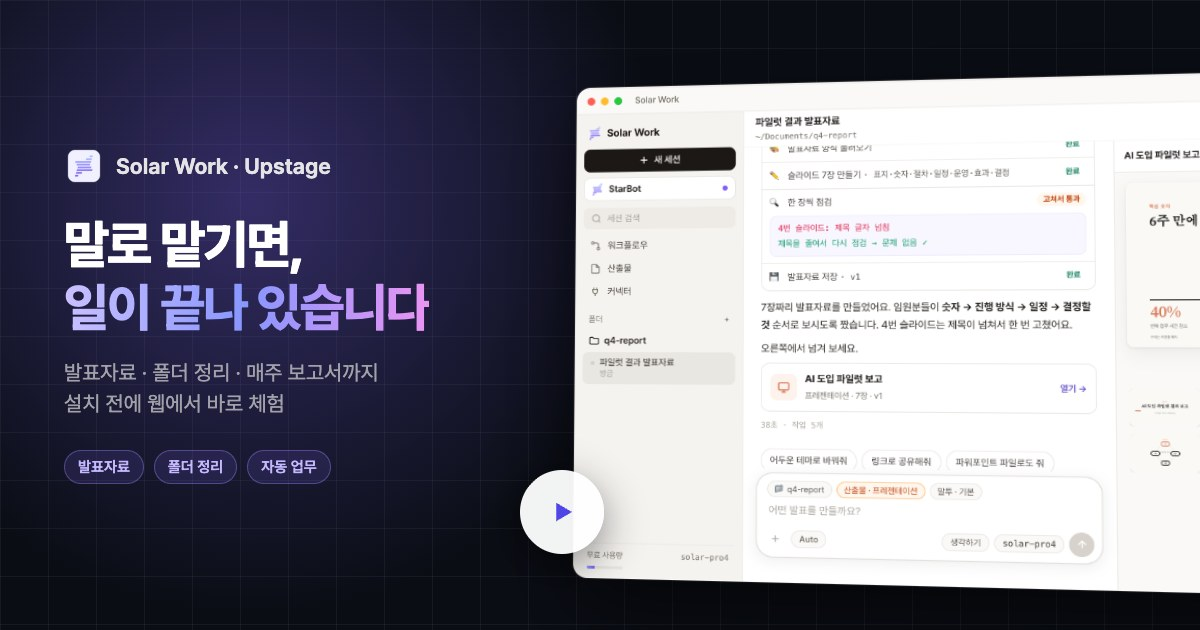
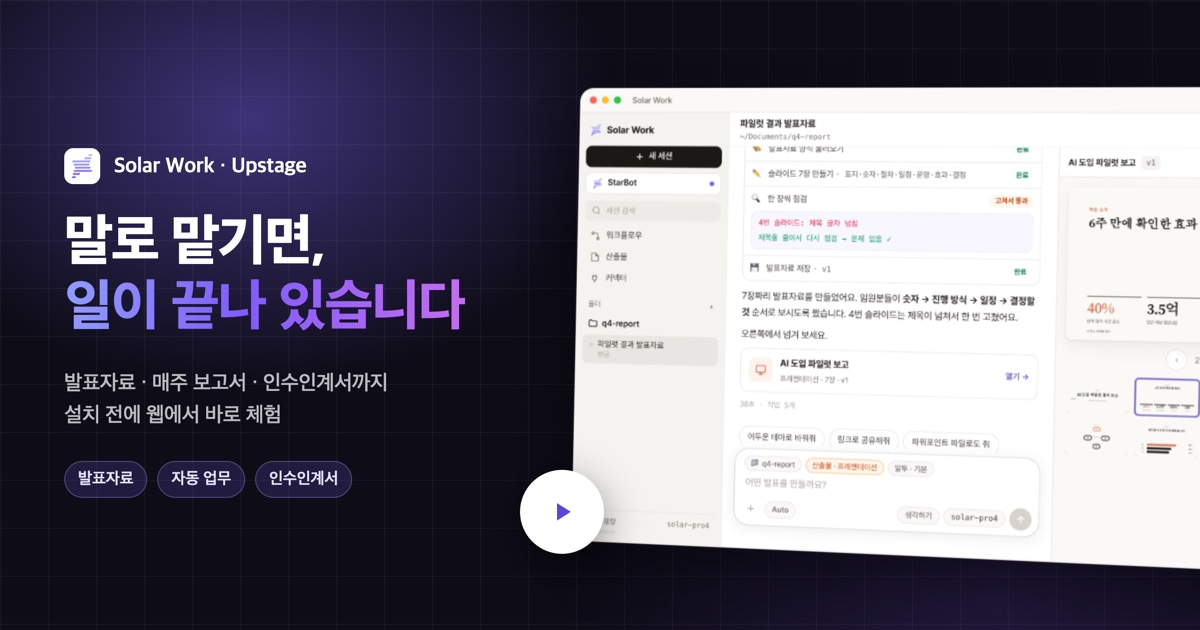
Landing demo: replace folder cleanup with a vacation handover doc
Review feedback worried that a demo which deletes and tidies files
suggests data loss. The folder-cleanup scene is gone. A new last scene
writes a handover document before a vacation. It gathers the week's
work from the other scenes (the deck v2, the sales chart, the weekly
competitor report, the pending Northwind contract) and saves it as a
new file. It deletes nothing and stops for no approval.

Scene order is now: slides, change course, split research, weekly
report, morning briefing, handover. Typing "인수인계" or "휴가" opens
the new scene.

Copy follows the change: meta and og descriptions, hero lead, use-case
card, and the request-judge default. The hero chip once again
reassures that deletes are asked first. The "asks first" section title
now covers going outside the folder too, and its demo button opens the
weekly report scene, which really waits for an OK. The briefing date
is fixed to Monday Oct 19, matching the weekly report's next run on
Monday Oct 26. The link-preview image is regenerated without "폴더 정리".

diff --git a/docs/index.html b/docs/index.html
@@ -4,13 +4,13 @@
 <meta charset="utf-8">
 <meta name="viewport" content="width=device-width, initial-scale=1">
 <title>Solar Work — 말로 맡기면 일이 끝나 있습니다</title>
-<meta name="description" content="자료를 주면 발표자료가, 엉망인 폴더는 정리가, 매주 보고서는 자동으로. 말로 맡기면 일이 끝나 있는 AI 동료 Solar Work.">
+<meta name="description" content="자료를 주면 발표자료가, 매주 보고서는 자동으로, 휴가 전엔 인수인계서까지. 말로 맡기면 일이 끝나 있는 AI 동료 Solar Work.">
 <meta name="theme-color" content="#faf9f7">
 <meta property="og:type" content="website">
 <meta property="og:site_name" content="Solar Work">
 <meta property="og:url" content="https://upstageai.github.io/solar-work-release/">
 <meta property="og:title" content="Solar Work — 말로 맡기면 일이 끝나 있습니다">
-<meta property="og:description" content="발표자료, 폴더 정리, 매주 보고서까지. 알아서 하고 지울 때만 물어보는 AI 동료를 설치 없이 웹에서 먼저 체험해 보세요.">
+<meta property="og:description" content="발표자료, 매주 보고서, 인수인계서까지. 알아서 하고 꼭 필요할 때만 물어보는 AI 동료를 설치 없이 웹에서 먼저 체험해 보세요.">
 <meta property="og:image" content="https://upstageai.github.io/solar-work-release/assets/og.jpg">
 <meta property="og:image:secure_url" content="https://upstageai.github.io/solar-work-release/assets/og.jpg">
 <meta property="og:image:type" content="image/jpeg">
@@ -20,7 +20,7 @@
 <meta property="og:locale" content="ko_KR">
 <meta name="twitter:card" content="summary_large_image">
 <meta name="twitter:title" content="Solar Work — 말로 맡기면 일이 끝나 있습니다">
-<meta name="twitter:description" content="발표자료, 폴더 정리, 매주 보고서까지. 설치 없이 웹에서 먼저 체험해 보세요.">
+<meta name="twitter:description" content="발표자료, 매주 보고서, 인수인계서까지. 설치 없이 웹에서 먼저 체험해 보세요.">
 <meta name="twitter:image" content="https://upstageai.github.io/solar-work-release/assets/og.jpg">
 <link rel="icon" href="assets/logo.svg" type="image/svg+xml">
 <link rel="apple-touch-icon" href="assets/icon.png">
@@ -662,7 +662,7 @@ footer a{text-decoration:none;color:var(--n500)}footer a:hover{color:var(--n900)
   <div class="wrap">
     <span class="eyebrow"><i></i>Upstage Solar로 일하는 AI 동료 · Mac · Windows · Linux · 웹</span>
     <h1>말로 맡기면,<br><span class="grad">일이 끝나 있습니다</span></h1>
-    <p class="lead">자료를 주면 발표자료가 되고, 엉망인 폴더는 정리되고, 매주 하던 보고서는 알아서 만들어져 내 확인만 기다립니다. 답만 하는 AI가 아니라, 내 컴퓨터에서 <b>일을 끝내는</b> AI 동료 Solar Work.</p>
+    <p class="lead">자료를 주면 발표자료가 되고, 매주 하던 보고서는 알아서 만들어져 내 확인만 기다리고, 휴가 전엔 인수인계서까지 써 둡니다. 답만 하는 AI가 아니라, 내 컴퓨터에서 <b>일을 끝내는</b> AI 동료 Solar Work.</p>
     <div class="cta">
       <a class="btn brand" href="#download" data-dl-primary><svg class="i" viewBox="0 0 24 24" fill="none" stroke="currentColor" stroke-width="2.2" stroke-linecap="round"><path d="M12 4v11M7 10l5 5 5-5M5 20h14"/></svg><span data-dl-label>무료로 다운로드</span></a>
       <a class="btn ghost" href="#demo" data-start="deck">▶ 설치 없이 지금 체험하기</a>
@@ -670,7 +670,7 @@ footer a{text-decoration:none;color:var(--n500)}footer a:hover{color:var(--n900)
     <div class="cta-note"><span data-dl-meta>macOS · Windows · Linux</span> · 로그인하거나 Upstage API 키를 넣으면 바로 시작 · <a href="#download">다른 플랫폼</a></div>
     <div class="trust">
       <span>📊 보고서·<b>발표자료</b>를 말로</span>
-      <span>🗂 파일 정리는 <b>알아서</b>, 지울 땐 물어보고</span>
+      <span>🛡 알아서 하고, <b>지울 땐 먼저</b> 물어보고</span>
       <span>🔁 매주 할 일은 <b>자동으로</b></span>
       <span>🇰🇷 <b>한글 문서</b>·스캔 서류도 척척</span>
     </div>
@@ -681,11 +681,11 @@ footer a{text-decoration:none;color:var(--n500)}footer a:hover{color:var(--n900)
   <div class="wrap">
     <div class="tour" id="tour">
       <button class="tcard" data-tour="deck"><span class="tn">01</span><b>자료 → 발표자료</b><span>엑셀 주고 “임원 보고용으로”</span></button>
-      <button class="tcard" data-tour="auto"><span class="tn">02</span><b>폴더 정리 맡기기</b><span>지울 때만 물어봐요</span></button>
-      <button class="tcard" data-tour="steer"><span class="tn">03</span><b>“아 그거 말고”</b><span>하는 중에 바로 고치기</span></button>
-      <button class="tcard" data-tour="team"><span class="tn">04</span><b>조사는 나눠서 빠르게</b><span>세 곳을 동시에</span></button>
-      <button class="tcard" data-tour="flow"><span class="tn">05</span><b>매주 보고서 자동으로</b><span>내가 OK하면 팀에 발송</span></button>
-      <button class="tcard" data-tour="star"><span class="tn">06</span><b>아침 브리핑</b><span>오늘 챙길 것만 먼저</span></button>
+      <button class="tcard" data-tour="steer"><span class="tn">02</span><b>“아 그거 말고”</b><span>하는 중에 바로 고치기</span></button>
+      <button class="tcard" data-tour="team"><span class="tn">03</span><b>조사는 나눠서 빠르게</b><span>세 곳을 동시에</span></button>
+      <button class="tcard" data-tour="flow"><span class="tn">04</span><b>매주 보고서 자동으로</b><span>내가 OK하면 팀에 발송</span></button>
+      <button class="tcard" data-tour="star"><span class="tn">05</span><b>아침 브리핑</b><span>오늘 챙길 것만 먼저</span></button>
+      <button class="tcard" data-tour="handover"><span class="tn">06</span><b>휴가 전 인수인계서</b><span>한 주 한 일을 알아서 모아</span></button>
     </div>
 
     <div class="app" id="app">
@@ -722,11 +722,11 @@ footer a{text-decoration:none;color:var(--n500)}footer a:hover{color:var(--n900)
                 <p>작업을 설명해 주세요. 도구를 고르고, 계획을 설명하고, 위험한 단계 전에 확인합니다.</p>
                 <div class="wgrid">
                   <button data-tour="deck"><b>📊 발표자료 만들기</b>파일럿 결과를 임원 보고용으로</button>
-                  <button data-tour="auto"><b>🗂 다운로드 폴더 정리</b>영수증·계약서·사진 분류</button>
                   <button data-tour="steer"><b>📈 매출 리포트</b>하는 중에 차트로 바꾸기</button>
                   <button data-tour="team"><b>🔍 경쟁사 조사</b>세 곳을 동시에</button>
                   <button data-tour="flow"><b>🔁 매주 월요일 보고서</b>내 확인 후 팀에 발송</button>
                   <button data-tour="star"><b>☀ 아침 브리핑</b>오늘 바뀐 것만</button>
+                  <button data-tour="handover"><b>🧳 휴가 전 인수인계서</b>이번 주 한 일 모아서</button>
                 </div>
               </div>
               <div class="dock">
@@ -817,7 +817,7 @@ footer a{text-decoration:none;color:var(--n500)}footer a:hover{color:var(--n900)
   <div class="wrap two rev">
     <div class="panel">
       <div style="font-size:13px;color:var(--n500);margin-bottom:8px;font-weight:600">이런 부탁을 하면 Solar Work는 어떻게 할까요? 눌러 보거나 직접 써 보세요.</div>
-      <form class="risk-in" id="riskForm"><span>✍</span><input id="riskIn" value="중복된 사진 312장 지워줘" autocomplete="off" spellcheck="false" aria-label="부탁"><button>확인</button></form>
+      <form class="risk-in" id="riskForm"><span>✍</span><input id="riskIn" value="이번 주 한 일 모아서 인수인계서 써줘" autocomplete="off" spellcheck="false" aria-label="부탁"><button>확인</button></form>
       <div class="presets" id="presets"></div>
       <div class="verdict" id="verdict"></div>
       <div class="tiers">
@@ -828,7 +828,7 @@ footer a{text-decoration:none;color:var(--n500)}footer a:hover{color:var(--n900)
     </div>
     <div>
       <div class="kicker">맡겨 두고 딴 일 하세요</div>
-      <h2>알아서 하되,<br>지울 때만 물어봅니다</h2>
+      <h2>알아서 하되,<br>꼭 필요할 때만 물어봅니다</h2>
       <p class="sl">“허용할까요?”를 백 번 누를 필요도, 다 맡겼다가 불안해할 필요도 없습니다. Solar Work는 내가 고른 폴더 안에서만 일하고, <b>무언가를 지우거나 폴더 밖으로 나가야 할 때만</b> 이유를 붙여 물어봅니다.</p>
       <ul class="pts">
         <li><span>내가 고른 <b>폴더 안에서만</b> 일해요. 다른 폴더는 건드리지 못해요</span></li>
@@ -836,7 +836,7 @@ footer a{text-decoration:none;color:var(--n500)}footer a:hover{color:var(--n900)
         <li><span>물어볼 땐 <b>왜 필요한지</b>를 같이 알려 줘요. 안 된다고 하면 다른 방법을 찾아요</span></li>
         <li><span>외부 공개 공유는 아무리 맡겨도 <b>항상 내가 직접 확인</b></span></li>
       </ul>
-      <button class="tryit" data-start="auto">▶ 데모에서 폴더 정리 맡겨 보기</button>
+      <button class="tryit" data-start="flow">▶ 데모에서 ‘내 확인 후 발송’ 해 보기</button>
     </div>
   </div>
 </section>
@@ -982,7 +982,7 @@ function route(text) {
   if (/경쟁사|동향|나눠서|나눠 |조사/.test(t)) return "team";
   if (/발표|슬라이드|ppt|피피티|프레젠테이션|보고용/.test(t)) return "deck";
   if (/매출|리포트|차트|그래프/.test(t)) return "steer";
-  if (/정리|폴더|다운로드|지워|지우|삭제|분류/.test(t)) return "auto";
+  if (/인수인계|인계|휴가|부재/.test(t)) return "handover";
   if (/브리핑|챙겨|챙길|오늘 할 일|오늘 뭐|starbot|스타봇/.test(t)) return "star";
   return null;
 }
@@ -1268,7 +1268,7 @@ function handle(text, tag) {
   turn(async () => {
     userSay(text, tag);
     await think("데모에서 보여 드릴 수 있는 장면인지 확인", 600);
-    await say("<p>실제 앱에서는 이런 부탁도 그대로 맡기면 됩니다. 이 데모에서는 미리 준비한 장면만 보여 드릴 수 있어요. 아래에서 골라 보시거나, <b>“발표자료 만들어줘”</b>, <b>“다운로드 폴더 정리해줘”</b>, <b>“매주 월요일에 보고서 보내줘”</b>처럼 써 보세요.</p>");
+    await say("<p>실제 앱에서는 이런 부탁도 그대로 맡기면 됩니다. 이 데모에서는 미리 준비한 장면만 보여 드릴 수 있어요. 아래에서 골라 보시거나, <b>“발표자료 만들어줘”</b>, <b>“휴가 전에 인수인계서 써줘”</b>, <b>“매주 월요일에 보고서 보내줘”</b>처럼 써 보세요.</p>");
     setFollow(Object.keys(TOURS).map(k => ({ label: TOUR_LABEL[k], run: () => start(k) })));
   });
 }
@@ -1365,7 +1365,7 @@ async function autoFlip() {
 }
 
 /* ================= tours ================= */
-const TOUR_LABEL = { deck: "📊 발표자료 만들기", auto: "🗂 폴더 정리 맡기기", steer: "📈 하는 중에 고치기", team: "🔍 경쟁사 조사", flow: "🔁 매주 보고서 자동으로", star: "☀ 아침 브리핑" };
+const TOUR_LABEL = { deck: "📊 발표자료 만들기", steer: "📈 하는 중에 고치기", team: "🔍 경쟁사 조사", flow: "🔁 매주 보고서 자동으로", star: "☀ 아침 브리핑", handover: "🧳 휴가 전 인수인계서" };
 const TOURS = {
   async deck(o) {
     setTitle("파일럿 결과 발표자료");
@@ -1388,35 +1388,6 @@ const TOURS = {
     foot("38초 · 작업 5개");
     setFollow(DECK_FOLLOW.slice());
     autoFlip().catch(() => {});
-  },
-
-  async auto(o) {
-    setTitle("다운로드 폴더 정리", "~/Downloads");
-    setAuto(true);
-    $("#hint").textContent = "알아서 하기 켜짐 — 지울 때와 폴더 밖으로 나갈 때만 물어봐요";
-    if (o.text) userSay(o.text, o.tag); else { await sleep(500); await typeSend("다운로드 폴더 좀 정리해줘. 영수증, 계약서, 사진 나눠 주고 파일 이름도 알아보기 쉽게."); }
-    await think("종류부터 보고, 날짜·거래처로 이름을 붙이자. 지우는 건 묻고 하기");
-    const g = tools();
-    await g.add({ ic: "👀", label: "파일 214개 훑어보기", det: "PDF 52 · 사진 121 · 기타 41", badge: "auto", dur: 900 });
-    await g.add({ ic: "🧾", label: "영수증 38개 → 영수증/2026-10", badge: "auto", dur: 800 });
-    await g.add({ ic: "✍", label: "계약서 6개 이름 바꾸기", badge: "auto", out: "scan_0912.pdf → 2026-09_계약서_노스윈드.pdf\nscan_0915.pdf → 2026-09_계약서_한빛물산.pdf\n… 4개 더", dur: 1000 });
-    await g.add({ ic: "🖼", label: "사진 121장 → 사진/2026", badge: "auto", dur: 800 });
-    g.done();
-    await say("<p>분류는 끝났어요. 그런데 <b>똑같은 사진이 17장</b> 있어요. 지우는 일이라 먼저 여쭤볼게요.</p>");
-    const a = await approval({ kind: "del", title: "지워도 될까요?", badge: "삭제", det: "중복 사진 17장 · 1.2GB 확보 (원본은 남겨요)", why: "같은 사진이 두 번씩 저장돼 있어요.", yes: "지우기", keep: "휴지통으로만", no: "남겨 두기" });
-    const g2 = tools();
-    if (a === "no") await g2.add({ ic: "📌", label: "중복 사진은 ‘중복’ 폴더로만 모아 두기", badge: "auto", dur: 600 });
-    else await g2.add({ ic: "🗑", label: a === "keep" ? "중복 사진 17장 휴지통으로" : "중복 사진 17장 지우기", det: "1.2GB", dur: 700 });
-    g2.done();
-    await say("<p>하나 더요. <b>바탕화면의 ‘세금’ 폴더</b>에도 영수증 9개가 있어요. 고르신 폴더 밖이라 열어 봐도 될지 여쭤볼게요.</p>");
-    const b = await approval({ kind: "out", title: "고른 폴더 밖이에요", badge: "폴더 밖", det: "바탕화면/세금 · 영수증 9개를 영수증 폴더로 모으기", why: "영수증을 한곳에 모으려면 이 폴더도 봐야 해요.", yes: "이번만 허용", no: "하지 않기" });
-    if (b === "yes") { const g3 = tools(); await g3.add({ ic: "🧾", label: "영수증 9개 → 영수증/2026-10", dur: 700 }); g3.done(); }
-    await say(`<p>정리했어요.</p><table class="tbl"><tr><th></th><th>전</th><th>후</th></tr><tr><td>영수증</td><td>여기저기</td><td>영수증/2026-10 · ${b === "yes" ? 47 : 38}개</td></tr><tr><td>계약서</td><td>scan_0912.pdf …</td><td>날짜_계약서_거래처.pdf</td></tr><tr><td>사진</td><td>121장 섞임</td><td>사진/2026${a === "no" ? " · 중복은 ‘중복’ 폴더" : " · 중복 17장 정리"}</td></tr></table><p>묻지 않고 한 일 4가지, 여쭤본 일 2가지예요.</p>`);
-    foot("52초 · 알아서 4 · 물어봄 2");
-    setFollow([
-      { label: "영수증 합계 엑셀로 만들어줘", re: /엑셀|합계/, run: async () => { await think("영수증 금액을 읽어서 월별 합계로", 600); const g = tools(); await g.add({ ic: "🔎", label: "영수증 글자 읽기", det: "PDF·사진 47개", badge: "auto", dur: 1100 }); await g.add({ ic: "📊", label: "엑셀 만들기", det: "영수증_합계_2026-10.xlsx", badge: "auto", dur: 700 }); g.done(); await say("<p><b>영수증_합계_2026-10.xlsx</b>를 만들었어요. 거래처별·날짜별 시트와 합계 <b>1,284,600원</b>(예시)을 넣었어요.</p>"); } },
-      { label: "다음에도 이 방식으로 정리해줘", re: /다음에도|기억/, run: async () => { const g = tools(); await g.add({ ic: "🧠", label: "기억하기", det: "다운로드 정리 규칙", dur: 700 }); g.done(); await say("<p>기억해 둘게요. 다음에 “정리해줘”만 하셔도 <b>영수증/계약서/사진</b>으로 나누고 같은 규칙으로 이름을 붙일게요.</p>"); } },
-    ]);
   },
 
   async steer(o) {
@@ -1549,16 +1520,37 @@ const TOURS = {
     await sleep(1300);
     w.done();
     await say("<p>좋은 아침이에요. 어제 이후 <b>바뀐 것만</b> 정리했어요.</p>");
-    const b = add(`<div class="bh"><b>☀ 10월 20일 월요일 브리핑</b><span>기억 12개 · 대화 7개 확인</span></div>`, "brief fade");
+    const b = add(`<div class="bh"><b>☀ 10월 19일 월요일 브리핑</b><span>기억 12개 · 대화 7개 확인</span></div>`, "brief fade");
     const rows = [
       ["오늘의 변화", `① 3분기 매출 리포트 완성 — 막대그래프 버전으로 확정 <span class="slink">↗ 매출 리포트</span><br>② 파일럿 발표자료 v2(어두운 테마) 공유됨 <span class="slink">↗ 발표자료</span>`],
-      ["막힌 일", `노스윈드 계약서 서명본이 아직 없어요 — 상대 회신 대기 중 <span class="slink">↗ 폴더 정리</span>`],
+      ["막힌 일", `노스윈드 계약서 서명본이 아직 없어요 — 상대 회신 대기 중 <span class="slink">↗ 노스윈드 계약</span>`],
       ["오늘 할 일", `① 10시 임원 보고 전에 발표자료 최종 확인<br>② 경쟁사 보고서 확인하고 팀에 보내기`],
     ];
     for (const r of rows) { await sleep(600); const d = document.createElement("div"); d.className = "row"; d.innerHTML = `<span class="k">${r[0]}</span><span>${r[1]}</span>`; b.appendChild(d); follow(); }
     await sleep(300);
     add("모든 내용에 출처 대화가 붙어 있어요. 눌러서 바로 가 볼 수 있어요.", "foot");
     setFollow(STAR_FOLLOW.slice());
+  },
+
+  async handover(o) {
+    setTitle("휴가 전 인수인계서");
+    if (o.text) userSay(o.text, o.tag); else { await sleep(500); await typeSend("다음 주 월~수 휴가야. 이번 주 한 일 모아서 지민님한테 넘길 인수인계서 만들어줘."); }
+    await think("이번 주 대화와 결과물에서 아직 진행 중인 일만 골라, 마감과 할 일을 붙이자");
+    const g = tools();
+    await g.add({ ic: "🔎", label: "이번 주 대화 훑어보기", det: "발표자료 · 매출 리포트 · 경쟁사 조사 · 자동 업무", badge: "auto", dur: 1000 });
+    await g.add({ ic: "📂", label: "결과물 확인", det: "발표자료 v2 · 매출 리포트 · 경쟁사 비교표", badge: "auto", dur: 700 });
+    await g.add({ ic: "⏰", label: "자동 업무 일정 확인", det: "매주 경쟁사 보고서 · 월 09:00", badge: "auto", dur: 600 });
+    await g.add({ ic: "✏", label: "인수인계서 쓰기", det: "진행 중 4건 · 2쪽", badge: "auto", dur: 1400 });
+    await g.add({ ic: "🔍", label: "빠진 것 점검", badge: "fix", out: "휴가 중 월요일 경쟁사 보고서를 확인할 사람이 비어 있어요\n‘휴가 중 확인: 지민님’으로 채워서 다시 점검 → 문제 없음 ✓", dur: 1200 });
+    await g.add({ ic: "💾", label: "새 문서로 저장", det: "인수인계_10월4주.docx", badge: "auto", dur: 500 });
+    g.done();
+    add(`<span class="ai fl"><svg width="18" height="18" viewBox="0 0 24 24" fill="none" stroke="currentColor" stroke-width="2"><path d="M14 3H6a2 2 0 0 0-2 2v14a2 2 0 0 0 2 2h12a2 2 0 0 0 2-2V9z"/><path d="M14 3v6h6"/></svg></span><span><b>인수인계_10월4주.docx</b><small>2쪽 · q4-report 폴더에 새로 저장됨</small></span><span class="go">다운로드</span>`, "acard fade");
+    await say(`<p>이번 주에 한 일을 모아 인수인계서를 만들었어요. 끝난 일은 짧게, <b>지민님이 챙길 일</b>은 마감과 함께 적었어요.</p><table class="tbl"><tr><th>일</th><th>지금 상태</th><th>지민님이 할 것</th></tr><tr><td>파일럿 발표자료</td><td>v2로 임원 보고 끝</td><td>질문이 오면 7번 슬라이드 참고</td></tr><tr><td>3분기 매출 리포트</td><td>막대그래프 버전 확정</td><td>없음</td></tr><tr><td>경쟁사 보고서</td><td>매주 월 9시 자동 초안</td><td><b>10/26(월)</b> 초안 확인 후 발송</td></tr><tr><td>노스윈드 계약서</td><td>서명본 회신 대기</td><td>회신 오면 법무팀에 전달</td></tr></table>`);
+    foot("44초 · 작업 6개");
+    setFollow([
+      { label: "지민님한테 보낼 메일 초안도 써줘", re: /메일|초안/, run: async () => { await think("인수인계서를 붙이고, 꼭 챙길 두 가지만 본문에", 600); const g = tools(); await g.add({ ic: "✉", label: "메일 초안 쓰기", det: "받는 사람: 지민님 · 첨부 1개", badge: "auto", dur: 900 }); g.done(); await say("<p>메일 초안을 써 두었어요. <b>보내기는 직접</b> 확인하고 눌러 주세요.</p><p>“지민님, 다음 주 월~수 휴가라 인수인계서 첨부드려요. 월요일 경쟁사 보고서 확인이랑 노스윈드 회신만 챙겨 주시면 됩니다.”</p>"); } },
+      { label: "PDF로도 저장해줘", re: /pdf/i, run: async () => { const g = tools(); await g.add({ ic: "📑", label: "PDF로 저장", det: "인수인계_10월4주.pdf", badge: "auto", dur: 800 }); g.done(); await say("<p>같은 폴더에 <b>PDF 버전</b>도 넣어 두었어요.</p>"); } },
+    ]);
   },
 };
 
@@ -1787,7 +1779,7 @@ safely(() => {
 safely(() => {
   const U = [
     ["기획·보고", "이 엑셀로 임원 보고용 발표자료 만들어줘", "<b>7장짜리 발표자료</b> + 파워포인트 파일", "deck"],
-    ["누구나", "다운로드 폴더 좀 정리해줘", "<b>영수증·계약서·사진</b>이 제자리에, 지울 것만 확인", "auto"],
+    ["누구나", "다음 주 휴가야. 이번 주 한 일 모아서 인수인계서 써줘", "<b>진행 중인 일·마감·할 일</b>이 담긴 인수인계서", "handover"],
     ["영업·재무", "3분기 매출 지역별로 정리해줘… 아, 표 말고 차트로", "하던 걸 멈추지 않고 <b>차트로 바로 전환</b>", "steer"],
     ["마케팅·전략", "경쟁사 세 곳 최근 동향 비교해줘", "도우미 3명이 동시에 조사한 <b>출처 달린 비교표</b>", "team"],
     ["팀장", "매주 월요일 9시에 주간 보고 만들어서 내 확인 후 팀에 보내줘", "<b>매주 자동 초안</b>, 내가 승인해야 발송", "flow"],
